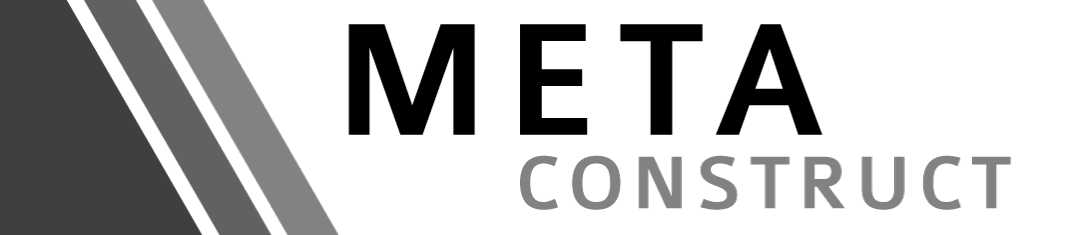
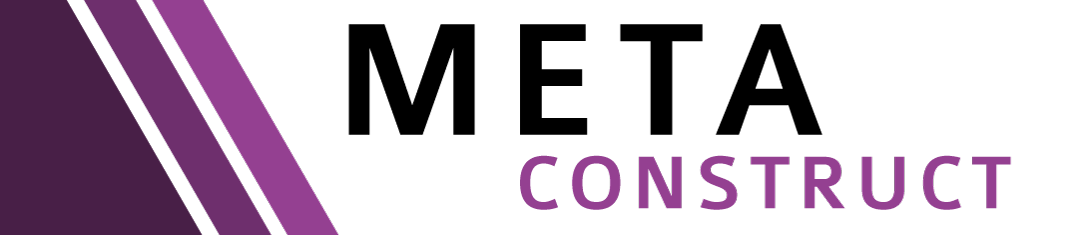
Added "About" modal.

Changed region(s): [[0.0, 0.0, 0.3361, 1.0], [0.4583, 0.6553, 0.9472, 0.8936]]

diff --git a/web/index.html b/web/index.html
@@ -10,13 +10,32 @@
 		<link rel="stylesheet" type="text/css" href="css/main.css">
 	</head>
 	<body>
+		<div id="modal-about" class="modal fade" role="dialog">
+			<div class="modal-dialog">
+				<div class="modal-content">
+					<div class="modal-header">
+						<button type="button" class="close" data-dismiss="modal">&times;</button>
+						<h3 class="metaicon-base">About</h3>
+					</div>
+					<div class="modal-body">
+						<p>Prints and this website by <a href="http://keylimepie.me" target="_blank">KeyLimePie</a>, 2016.<br/>
+						Want to see how all of this works? Visit the project page on <a href="https://github.com/TheKeyLimePie/metacups-web" target="_blank">GitHub</a> and leave a comment or a pull request to improve this website!
+						</p>
+					</div>
+					<div class="modal-footer">
+						<button type="button" class="btn btn-default" data-dismiss="modal">Close</button>
+					</div>
+				</div>
+			</div>
+		</div>
+		
 		<div class="jumbotron text-left head-img">
 			<div class="head-stripes"></div>
 			<div class="container-fluid head-content">
 				<div class="row row-nav">
 					<ul class="nav navbar-nav">
 						<li><a href="#philo">\\\ Philosophy</a></li>
-						<li><a href="#mugs">\\\ MetaCups</a></li>
+						<li><a href="#metacups">\\\ MetaCups</a></li>
 					</ul>
 				</div>
 			</div>
@@ -49,7 +68,7 @@
 				</div>
 			</div>
 			
-			<div class="page-header" id="mugs">
+			<div class="page-header" id="metacups">
 				<h1 class="metaicon">MetaCups</h1>
 			</div>
 			
@@ -96,10 +115,7 @@
 		<div class="container-fluid footer">
 			<div class="row row-eq-height">
 				<div class="col-sm-12 col-md-1" id="logo-footer">
-					<img class="img-responsive" src="img/metastruct.png" alt="Meta Construct">
-				</div>
-				<div class="col-sm-12 col-md-5 col-md-offset-6">
-					<p>KeyLimePie, 2016</p>
+					<a data-toggle="modal" data-target="#modal-about" href="#"><img class="img-responsive" src="img/metastruct-bw.png" alt="Meta Construct"></a>
 				</div>
 			</div>
 		</div>

diff --git a/web/css/main.css b/web/css/main.css
@@ -11,8 +11,19 @@ h1 {
 	font-size: 75pt;
 	margin-top: 0px;
 	color: rgb(72,31,71);
-	
 	text-align: left;
+}
+
+h2 {
+	font-size: 42pt;
+	margin: 0px;
+	color: rgb(110,47,109);
+}
+
+h3 {
+	font-size: 24pt;
+	margin-top: 0px;
+	color: rgb(110,47,109);
 }
 
 @media (min-width: 768px) {
@@ -162,11 +173,6 @@ h1 {
 		vertical-align: baseline;
 	}
 }
-h2 {
-	font-size: 42pt;
-	margin-top: 0px;
-	color: rgb(110,47,109);
-}
 
 p {
 	font-size: 16pt;
@@ -174,6 +180,18 @@ p {
 }
 
 /* CLASSES */
+
+.modal-body {
+	padding-bottom: 25px;
+	text-align: justify;
+}
+
+.modal-footer {
+	background-image: url(../img/metastruct.png);
+	background-position: left;
+	background-size: contain;
+	background-repeat: no-repeat;
+}
 
 .head-img {
 	background-image: url(../img/cover.jpg);
